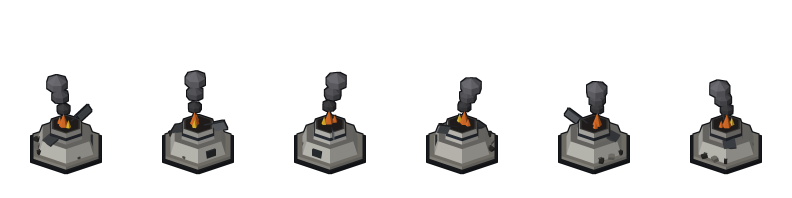
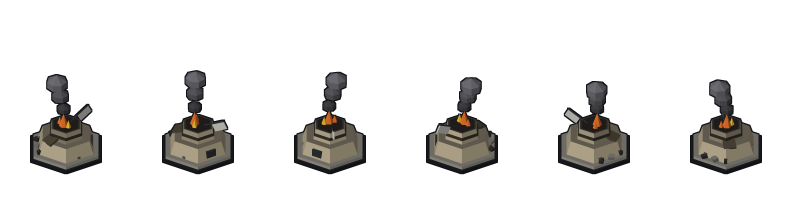
New decoy (sandy tan) and stronghold (steel dome, twin anti-air gun) sprites from the supplied renderer, re-rendered in the game's view order

diff --git a/tools/sprites/render_buildings.py b/tools/sprites/render_buildings.py
@@ -374,19 +374,20 @@ def lab(damaged=False):
     return m
 
 
-def base(flag=WHITE, damaged=False):
+def base(flag=WHITE, damaged=False, wall=CONCRETE_LT, upper="#efede6", band="#2a3340",
+         roof="#4a4f55"):
     m = pad()
-    m += prism(6, .66, .56, .12, .42, CONCRETE_LT, rot=90)
-    m += prism(6, .4, .34, .42, .66, "#efede6", rot=90)
-    m += prism(6, .39, .375, .5, .56, "#2a3340", rot=90)
+    m += prism(6, .66, .56, .12, .42, wall, rot=90)
+    m += prism(6, .4, .34, .42, .66, upper, rot=90)
+    m += prism(6, .39, .375, .5, .56, band, rot=90)
     if damaged:
         m += prism(6, .3, .3, .66, .665, "#1d1b1a", rot=90)
         m += box((.06, .22, .2), GUNMETAL, (.53, 0, .22))
         m += tube(4, .02, .02, .5, GUNMETAL, (.1, .1, .66), pitch=28, yaw=35)
         m += box((.3, .025, .17), flag, _xf((.34, 0, -.1), 28, 35, (.1, .1, .66)), pitch=28, yaw=35)
-        m += box((.3, .26, .05), "#4a4f55", (-.3, -.25, .46), pitch=20, yaw=40)
+        m += box((.3, .26, .05), roof, (-.3, -.25, .46), pitch=20, yaw=40)
         return wreck(m, (-.05, -.05, .66), 8)
-    m += prism(6, .37, .37, .66, .7, "#4a4f55", rot=90)
+    m += prism(6, .37, .37, .66, .7, roof, rot=90)
     m += box((.06, .22, .2), GUNMETAL, (.53, 0, .22))
     m += prism(4, .02, .02, .7, 1.2, GUNMETAL)
     m += box((.3, .025, .17), flag, (.17, 0, 1.1))
@@ -394,36 +395,34 @@ def base(flag=WHITE, damaged=False):
 
 
 def decoy(damaged=False):
-    return base(flag="#6c7076", damaged=damaged)
+    """The base in sandy tan instead of cool grey; same geometry and flag."""
+    return base(damaged=damaged, wall="#cdbf9f", upper="#e0d2b0", band="#3a3326", roof="#5a5140")
 
 
 def stronghold(damaged=False):
-    """A squat walled fort: thick sloped walls with merlons, a keep, and an
-    anti-air launcher on the roof. Damaged = the roof gun knocked out; the
-    fort itself never shows harm (only troops can take it)."""
-    stone, stone_dk = "#a29f94", "#7f7c72"
+    """Base variant: steel dome on the lower tier with a twin anti-air gun on top."""
+    dome = "#8996a3"
     m = pad()
-    m += prism(8, .74, .66, .12, .4, stone, rot=22.5)            # outer wall, sloped
-    m += prism(8, .62, .62, .4, .405, "#5d5a53", rot=22.5)       # wall walk
-    for i in range(8):                                           # merlons
-        a = math.radians(22.5 + 45 * i)
-        m += box((.14, .1, .09), stone, (.64 * math.cos(a), .64 * math.sin(a), .445), yaw=math.degrees(a) + 90)
-    m += prism(6, .42, .38, .4, .62, "#c9c6bb", rot=90)          # keep
-    m += prism(6, .37, .37, .62, .65, stone_dk, rot=90)
-    m += box((.04, .18, .16), DARK, (.73, 0, .2))                # gate
-    m += prism(4, .02, .02, .65, 1.15, GUNMETAL, at=(-.25, .15))  # flag
-    m += box((.26, .025, .15), WHITE, _xf((.13, 0, 0), 0, 0, (-.25, .15, 1.06)))
-    gun = (.06, -.05, .65)
-    m += prism(8, .2, .18, .65, .74, STEEL)                      # gun ring
+    m += prism(6, .66, .56, .12, .42, CONCRETE_LT, rot=90)
+    m += box((.06, .22, .2), GUNMETAL, (.53, 0, .22))
+    m += prism(12, .45, .45, .42, .5, "#efede6")
+    m += prism(12, .455, .455, .44, .48, "#2a3340")
+    m += prism(12, .45, .4, .5, .63, dome)
     if damaged:
-        m += box((.24, .38, .14), "#4a4f55", (gun[0], gun[1], .82), pitch=12, yaw=30)
-        m += tube(8, .045, .045, .5, GUNMETAL, (gun[0], gun[1] - .1, .82), pitch=6, yaw=-35, x0=.05)
-        m += tube(8, .045, .045, .3, GUNMETAL, (gun[0], gun[1] + .1, .82), pitch=55, yaw=25, x0=.05)
-        return wreck(m, (gun[0], gun[1], .86), 21)
-    m += box((.24, .38, .14), GREEN, (gun[0], gun[1], .82))
-    for y in (-.1, .1):
-        m += tube(8, .045, .045, .55, GUNMETAL, (gun[0], gun[1] + y, .82), pitch=50, x0=.05)
-        m += tube(8, .06, .06, .1, "#16181b", (gun[0], gun[1] + y, .82), pitch=50, x0=.55)
+        m += prism(12, .4, .33, .63, .7, dome)
+        m += prism(12, .33, .33, .7, .705, "#1d1b1a")
+        m += box((.3, .26, .04), dome, (-.2, .12, .72), pitch=24, yaw=30)
+        m += box((.16, .26, .1), GREEN, (.2, -.12, .7), pitch=-22, yaw=-25)
+        m += tube(8, .032, .032, .44, GUNMETAL, (.2, -.2, .7), pitch=-6, yaw=-40, x0=.02)
+        m += tube(8, .032, .032, .26, GUNMETAL, (.2, -.04, .72), pitch=30, yaw=-10, x0=.02)
+        return wreck(m, (-.02, .02, .7), 15)
+    m += prism(12, .4, .29, .63, .75, dome)
+    m += prism(12, .29, .15, .75, .82, dome)
+    m += prism(8, .17, .15, .82, .87, STEEL_DK)
+    m += box((.16, .26, .1), GREEN, (0, 0, .92))
+    for y in (-.08, .08):
+        m += tube(8, .032, .032, .44, GUNMETAL, (0, y, .93), pitch=50, x0=.02)
+        m += tube(8, .045, .045, .07, "#16181b", (0, y, .93), pitch=50, x0=.44)
     return m
 
 
@@ -589,8 +588,6 @@ BUILDINGS = {
     "lab_damaged": lambda: lab(damaged=True),
     "base_damaged": lambda: base(damaged=True),
     "decoy_damaged": lambda: decoy(damaged=True),
-    "stronghold": stronghold,
-    "stronghold_damaged": lambda: stronghold(damaged=True),
     "airport": airport,
     "airport_damaged": lambda: airport(damaged=True),
     "bunker": bunker,
@@ -599,6 +596,8 @@ BUILDINGS = {
     "docks_damaged": lambda: docks(damaged=True),
     "coastal_cannon": coastal_cannon,
     "coastal_cannon_damaged": lambda: coastal_cannon(damaged=True),
+    "stronghold": stronghold,
+    "stronghold_damaged": lambda: stronghold(damaged=True),
     "repair": repair,
     "rubble": rubble,
 }

diff --git a/ASSUMPTIONS.md b/ASSUMPTIONS.md
@@ -125,7 +125,7 @@ Each entry says where it lives. Data keys are in `data/rules.json` unless anothe
 | D90 | **More sounds.** A siren as the incoming warning starts, a chime when research finishes (at round start or with stored points), a click on every button, and you win / you lose at the end. Buildings without a sound of their own (anti-air, bunker, coastal cannon, decoy, base) play a shared construction sound, `build` → `default` in `data/sounds.json`; bases and decoys play it when placed in setup. `music_src/missing_sounds.md` lists what is still to make. | `game/audio.gd`, `data/sounds.json` |
 | D91 | **No base buttons.** The STATUS gauge on the comms set shows our bases' strength, so the base buttons are gone from the right-hand strip, which now holds only the research beakers. Selecting a base on the island still shows its hits taken. | `game/main.gd` `_build_strip`, `game/strip_button.gd` |
 | D92 | **Levels and the campaign.** `data/levels.json` lists the levels in order. Each changes data for its match with `set` (dotted paths, as the batch runner's `--set`), names a line the Admiral says at the start of setup, and gives `win_award_money`, added to both sides' starting money in the next level (180 after level 1: enough to research and build an airport), so it gives the player a start on troops without tipping the balance. Winning offers "On to Level 2"; losing offers "Try again" on the same level; winning the last level offers to play it again or go back to level 1. The current level and award live in `game/campaign.gd` for as long as the game runs; saving them comes later. The debug panel (the ` key) has "Skip to next level", which starts the next level with the award a win gives. | `data/levels.json`, `rules/levels.gd`, `game/campaign.gd`, `game/main.gd` `_show_game_over`, `_debug_next_level` |
-| D93 | **The stronghold** (level 2). One of each side's three bases is a stronghold: the first base placed in setup (the AI puts its own up high and away from the beach). It counts as a base for winning and losing. Missiles can't destroy it: a hit knocks out the anti-air gun on its roof (repair 15 money; out for the round of the repair, as other weapons) and shows the enemy it is a stronghold (until then it looks like any potential base). The gun defends exactly like an anti-air building. Only a platoon can destroy it, and bunkers stop platoons as usual. The STATUS gauge counts it as full until it falls. The Admiral introduces it at the start of level 2 setup, and warns once a match when the first missile reveals the enemy's. Its sprite comes from `tools/sprites/render_buildings.py` (`stronghold`, `stronghold_damaged` = gun knocked out). | `data/rules.json` `buildings.stronghold`, `bases.strongholds_per_side`; `SideState.setup`, `anti_air_guns`, `can_be_repaired`; `Resolver._apply_damage`; `MatchState._public_building`; `data/dialogue.json` `level_2_intro`, `enemy_stronghold` |
+| D93 | **The stronghold** (level 2). One of each side's three bases is a stronghold: the first base placed in setup (the AI puts its own up high and away from the beach). It counts as a base for winning and losing. Missiles can't destroy it: a hit knocks out the anti-air gun on its roof (repair 15 money; out for the round of the repair, as other weapons) and shows the enemy it is a stronghold (until then it looks like any potential base). The gun defends exactly like an anti-air building. Only a platoon can destroy it, and bunkers stop platoons as usual. The STATUS gauge counts it as full until it falls. The Admiral introduces it at the start of level 2 setup, and warns once a match when the first missile reveals the enemy's. Its sprite (a base with a steel dome and a twin anti-air gun on top; `stronghold_damaged` = gun knocked out) and the sandy-tan decoy come from `tools/sprites/render_buildings.py`. | `data/rules.json` `buildings.stronghold`, `bases.strongholds_per_side`; `SideState.setup`, `anti_air_guns`, `can_be_repaired`; `Resolver._apply_damage`; `MatchState._public_building`; `data/dialogue.json` `level_2_intro`, `enemy_stronghold` |
 | D94 | **Strong AI and strongholds.** In a level with strongholds it researches the airport and bunker first and builds them right after its lab; weighs bunkers twice as heavily around its own stronghold; values a known enemy stronghold at 30 for a drop (a potential base is 10); counts a stronghold's own gun when judging a drop on it; and lays siege: whenever it has an airport or docks, it fires first at a known stronghold's working gun and at working bunkers within reach of it, so they are out the next round (still broken, or under repair) when its troops land. Without the siege, AI matches stalled with both strongholds behind bunkers. | `data/ai.json` `strong.strongholds`, `strong.troops`; `ai/strong_ai.gd` `choose_targets` |
 | D95 | **Varied search shots.** The strong AI no longer always aims its search shots at the single best spot (which put its opening shots in the middle every match, easy to bait with a decoy). It picks at random, weighted by how much likely ground each would uncover, among aims within 30% of the best. 300 strong matches, varied against the old fixed aim, sides alternating: wins 159 to 141, so no weaker. | `data/ai.json` `strong.search_spread`; `StrongAI._search_aim` |
 | D96 | **Level 2 balance.** With the 180 award going to the player alone, level 2 was far easier than level 1 (200 matches each: easy stand-in 24%, medium 68%, equal 89%). With the enemy getting the same 180, it is in line with level 1: easy 12%, medium 14%, equal 52% (level 1: 7%, 15%, 45%). Level 2 matches run longer, a median of 27-29 rounds. | `game/main.gd` `_ready`; `tools/troop_study.gd --level 2 --award 180` |

diff --git a/tools/sprites/README.md b/tools/sprites/README.md
@@ -34,7 +34,7 @@ Output per run:
 
 Every building except the shared states also has a `<name>_damaged` sheet (hit, needs repair): the main feature is broken or knocked over, with soot, scorch marks, debris, a small fire and smoke. Damaged launchers have no missile, so there is no separate empty variant. `--no-fire` and `--no-smoke` drop those effects if you would rather do them as particles in-game.
 
-`decoy` is the base with a grey flag so the owner can tell them apart. Draw enemy decoys with the `base` sheet.
+`decoy` is the base in sandy tan instead of cool grey, with the same geometry and flag, so the owner can tell them apart. Draw enemy decoys with the `base` sheet. `stronghold` is a base variant with a steel dome and a twin anti-air gun on top; `stronghold_damaged` (gun knocked out) has the dome cracked and the gun wrecked.
 
 ## Troop buildings
 
